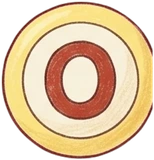
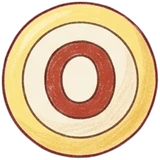
Deduce: fix the O badge cutout, no photo beside the suspicious card

diff --git a/index.html b/index.html
@@ -3287,7 +3287,8 @@ const CHRISTMAS_CASE = {
         opts:['O', 'X'],
         right:'The sleigh marks go from the storeroom past the post to his sleigh.', rightKo:'썰매 자국이 창고에서 기둥 옆을 지나 니코의 썰매까지 이어져.',
         hint:'Look at the two photos of the marks. Find the same wooden post.', hintKo:'자국 사진 두 장을 보고 같은 나무 기둥을 찾아 봐.' },
-      { step:9, who:'nico', q:'Who looks suspicious?', qKo:'누가 수상해 보여?',
+      // no who: a photo beside this card would show the answer (user request)
+      { step:9, q:'Who looks suspicious?', qKo:'누가 수상해 보여?',
         card:'{opt:Nico} looks suspicious.', cardKo:'니코가 수상해 보여.',
         opts:['Coco', 'Tess', 'Daisy', 'Nico'],
         right:"Two of his stories don't match the clues.", rightKo:'니코의 말 두 가지가 단서와 맞지 않아.',

diff --git a/scripts/cut-deduce-ox-buttons.py b/scripts/cut-deduce-ox-buttons.py
@@ -23,20 +23,21 @@ def key(im):
 
 sheet = key(Image.open('assets/ui/deduce-ox-buttons-higgsfield-original.png').convert('RGB'))
 W, H = sheet.size
+# each button is the drawn blob around its grid cell's centre, found on the whole sheet (a button can reach past
+# its quarter of the sheet; cutting by the grid clipped the badge O's edge)
+px = sheet.load()
 for row, style in enumerate(['wood', 'paper', 'wax', 'badge']):
     for col, mark in enumerate('ox'):
-        cell = sheet.crop((col * W // 4, row * H // 4, (col + 1) * W // 4, (row + 1) * H // 4))
-        # keep only the button in the middle of the cell (slivers of the neighbours reach into it)
-        cw, ch = cell.size; px = cell.load(); seen = set(); todo = [(cw // 2, ch // 2)]
+        seen = set(); todo = [(col * W // 4 + W // 8, row * H // 4 + H // 8)]
         while todo:
             x, y = todo.pop()
-            if (x, y) in seen or not (0 <= x < cw and 0 <= y < ch) or px[x, y][3] <= 8: continue
+            if (x, y) in seen or not (0 <= x < W and 0 <= y < H) or px[x, y][3] <= 8: continue
             seen.add((x, y)); todo += [(x + 1, y), (x - 1, y), (x, y + 1), (x, y - 1)]
-        for y in range(ch):
-            for x in range(cw):
-                if (x, y) not in seen: px[x, y] = (0, 0, 0, 0)
-        l, t, r, b = cell.getchannel('A').point(lambda v: 255 if v > 48 else 0).getbbox()
-        part = cell.crop((max(l - 2, 0), max(t - 2, 0), r + 2, b + 2))
+        xs = [x for x, _ in seen]; ys = [y for _, y in seen]
+        box = (min(xs) - 2, min(ys) - 2, max(xs) + 3, max(ys) + 3)
+        part = Image.new('RGBA', (box[2] - box[0], box[3] - box[1]))
+        pp = part.load()
+        for x, y in seen: pp[x - box[0], y - box[1]] = px[x, y]
         part.thumbnail((160, 160), Image.LANCZOS)
         part.save(f'assets/ui/deduce-ox-{style}-{mark}.webp', quality=92)
         print(style, mark, part.size)

diff --git a/HANDOFF.md b/HANDOFF.md
@@ -325,7 +325,7 @@ node server.js            # http://localhost:5173/
   - 맨 위 말풍선(`#deduceQ`)에서 탐정이 **질문을 하나씩** 한다(음성, ▶ 다시 듣기·`해석`). 질문 9개 = `DEDUCE.qs`: ① 언제?(범행 시각 `8:40`) → ② 그때 각자 어디?(레이: Lake Cafe → 본 사람 Mr. Duck / 로지: Moon Hill → 언덕 즉석카메라가 찍어 낸 8:45(사용자 결정: 본인 노트만으로는 약함)) → ③ 거짓말(피오나: 말한 장소 bakery → 주문 보드의 8:30 손님 Mrs. Bear가 문을 두드렸지만 피오나를 못 봄, "She lied." 동그라미) → ④ 왜·어디(그날 신문 리뷰로 화난 상대 Professor Hoot → library). 녹음 `audio/deduce/q·r·h1–9`. 질문·카드 문장에 이번 사건의 열쇠 문법(at / from A to B / between A and B)이 들어간다. 용의자는 레이·로지·피오나(사용자 결정: 두더지 부인은 뺌).
   - 인물 빈칸의 선택창은 `DEDUCE.people`·`deducePic()`으로 각 얼굴을 보여 준다. Professor Hoot는 NPC 목록 `S.met`에 없지만 피해자로 항상 인물 선택지에 남고, 물음표 대신 전신 그림에서 잘라 낸 `assets/ui/icons-v2/hoot.png` 얼굴을 쓴다.
   - 보드(사용자 요청): **카드는 쌓인다**(맞힌 문장이 사라지지 않게, 시각 카드는 따로 없음): 맞힌 문장은 작은 카드(`.ded-card.done`, 압정 없이 살짝 기울게)로 차례대로 남고, 맨 아래에 지금 질문의 압정 꽂은 카드(`#deduceCard`, 깜박이는 빈칸). 목록(`#deduceCards`)은 스크롤되고 새 카드가 생기면 부드럽게 맨 아래로 내려간다(`deduceToEnd()`). **용의자 사진은 그 사람 카드들의 왼쪽**에 붙는다(사용자 요청: 그 문장이 나올 때 그 문장 왼쪽에): 카드를 다루는 사람별로 묶고(`.ded-group`), 탐정이 그 사람을 처음 물을 때(레이 q2·로지 q4·피오나 q6) 첫 카드와 함께 사진이 톡 꽂힌다. 묶음이 길면 사진은 스크롤해도 묶음 위쪽에 붙어 있다(sticky). 순서는 레이 → 로지 → 피오나로 정해져 있다. 사진(지금 묻는 사람에게도 테두리 없음, 사용자 요청): 알리바이가 확인되면 빨간 X — 탐정이 "So Ray couldn't do it."·"Rosie couldn't do it."를 말하는 순간 크레용 X(`ui/crayon-x-1/2.png`)가 한 획씩 그 방향으로 그려진다(사용자 요청, `deduceHold`·`deduceMarkAt()`: 녹음 `r3`·`r5`에서 그 문장이 시작하는 초 `xAt`, 녹음이 없으면 글자 비율로; 말풍선을 눌러 넘기면 바로), 거짓말이 드러나면 빨간 크레용 동그라미(`ui/crayon-o-1/2.png`) — "She lied."를 말하는 순간(`xAt` 6.4초, r7) 아래에서 시작해 시계 반대 방향으로 한 바퀴 그린 뒤 끝이 시작 획 안쪽으로 겹친다(사용자 요청, 원뿔 마스크 `--o1`·`--o2`). 사진 아래 장소 메모는 없다(사용자 요청). 사진은 처음 나올 때 톡 튀어나오고, X·동그라미는 그려진다(`deduceShown`). 빨간 실은 없다(사진이 카드 바로 옆이라). `해석`은 **문장마다 따로**다(사용자 요청: 한 번에 펼치면 원하지 않은 문장 해석도 보임): 말풍선의 `해석`은 지금 대사만 펼치고 다음 대사가 나오면 닫힌다(`deduceShow()`), 맞힌 카드마다 문장 오른쪽에 작은 `해석`(`.ded-ko`, 맞힌 카드 26px·지금 카드 30px)이 있어 그 카드의 한국어만 펼친다(`deduceKoCards`, 보드를 다시 열면 모두 닫힘). 아직 못 푼 카드에는 한국어가 없다(사용자 요청: 카드 해석에 정답이 들어 있고, 묻는 내용은 말풍선 해석이 알려 줌).
-  - **O·X 문항은 포스트잇**(사용자가 시안 A 고름, 배열은 한 줄에 하나: 2열은 5장처럼 홀수일 때 어색함): 보기가 O·X 둘뿐인 문항(크리스마스 4–8번)은 띠 카드 대신 이 화면 전용 노란 포스트잇(`.ded-note`, Higgsfield로 그린 `assets/ui/deduce-note-3.webp`: 아래 가장자리가 살짝 들뜬 그늘, 사용자가 4개 후보 중 3번 고름. 해석을 열면 늘어나므로 `::after`에 9분할 `border-image`(32 50 90 50 → 14 20 36 20px)로 깔아 테두리·그늘은 그대로, 가운데만 늘어남. 빨간 압정으로 꽂음 `tack-red.webp`, 사용자: 테이프 말고 압정. 맞힌 포스트잇은 맞힌 문장 카드처럼 압정이 사라지고 지금 묻는 것에만 꽂힘, 사용자 요청)으로 한 묶음(`.ded-notes`)에 쌓인다. 왼쪽에 말한 사람 얼굴·이름(카드 문장의 `이름: ` 앞부분, 없으면 `suspects`)과 따옴표 문장, 오른쪽 칸에 묻는 동안 O·X 버튼(`.dn-ox`, Higgsfield 노란 배지 `assets/ui/deduce-ox-badge-o/-x.webp`: 버터색 테두리·크림 가운데·빨간 크레용 글자, 사용자가 버튼 시안 5개 중 E 고름. 누르면 살짝 눌리고 그림자가 줄어듦. `data-dox` → `deducePick`). 맞히면 글자가 포스트잇 폭 전체를 쓰고 큰 빨간 크레용 O·X가 오른쪽 위에 겹쳐 그어진다(사용자: 글자와 표시가 겹쳐도 됨; O는 `crayon-o-1·2.png`, X는 O만큼 가는 `crayon-x-thin-1·2.png`, 두 획이 차례로 `.draw`). 새 포스트잇은 위에서 살짝 떨어지며 붙고(`dn-drop`) 틀리면 흔들리며 표시는 그어지지 않는다. 해석은 맞힌 뒤에만(이름과 끝의 O·X를 뗀 `cardKo`). O·X 문항에는 왼쪽 용의자 사진 묶음을 쓰지 않는다(얼굴이 포스트잇에 있음). 다른 문항은 지금 띠 카드 그대로.
+  - **O·X 문항은 포스트잇**(9번 "Who looks suspicious?"는 `who`가 없어 옆에 사진을 붙이지 않음: 사진이 정답을 알려 줌, 사용자 지적)(사용자가 시안 A 고름, 배열은 한 줄에 하나: 2열은 5장처럼 홀수일 때 어색함): 보기가 O·X 둘뿐인 문항(크리스마스 4–8번)은 띠 카드 대신 이 화면 전용 노란 포스트잇(`.ded-note`, Higgsfield로 그린 `assets/ui/deduce-note-3.webp`: 아래 가장자리가 살짝 들뜬 그늘, 사용자가 4개 후보 중 3번 고름. 해석을 열면 늘어나므로 `::after`에 9분할 `border-image`(32 50 90 50 → 14 20 36 20px)로 깔아 테두리·그늘은 그대로, 가운데만 늘어남. 빨간 압정으로 꽂음 `tack-red.webp`, 사용자: 테이프 말고 압정. 맞힌 포스트잇은 맞힌 문장 카드처럼 압정이 사라지고 지금 묻는 것에만 꽂힘, 사용자 요청)으로 한 묶음(`.ded-notes`)에 쌓인다. 왼쪽에 말한 사람 얼굴·이름(카드 문장의 `이름: ` 앞부분, 없으면 `suspects`)과 따옴표 문장, 오른쪽 칸에 묻는 동안 O·X 버튼(`.dn-ox`, Higgsfield 노란 배지 `assets/ui/deduce-ox-badge-o/-x.webp`: 버터색 테두리·크림 가운데·빨간 크레용 글자, 사용자가 버튼 시안 5개 중 E 고름. 누르면 살짝 눌리고 그림자가 줄어듦. `data-dox` → `deducePick`). 맞히면 글자가 포스트잇 폭 전체를 쓰고 큰 빨간 크레용 O·X가 오른쪽 위에 겹쳐 그어진다(사용자: 글자와 표시가 겹쳐도 됨; O는 `crayon-o-1·2.png`, X는 O만큼 가는 `crayon-x-thin-1·2.png`, 두 획이 차례로 `.draw`). 새 포스트잇은 위에서 살짝 떨어지며 붙고(`dn-drop`) 틀리면 흔들리며 표시는 그어지지 않는다. 해석은 맞힌 뒤에만(이름과 끝의 O·X를 뗀 `cardKo`). O·X 문항에는 왼쪽 용의자 사진 묶음을 쓰지 않는다(얼굴이 포스트잇에 있음). 다른 문항은 지금 띠 카드 그대로.
   - 빈칸을 누르면 바로 아래(자리가 없으면 카드 위)에 드롭다운(`#deduceDrop`, 사용자 요청: 하단 선택지 줄 대신): 말풍선 종이 + 연필 꼬리. 시각 3열·장소 2열·인물은 얼굴 4열 격자(만난 적 없는 곰 부인·후트 교수는 `?`). 고를 수 있는 건 **플레이어가 알게 된 것만**(`deduceWords()`: 알게 된 인물 + 이름만 들은 둘, 알게 된 장소, 노트의 시각들). 이미 틀린 단어는 흐리게.
   - 맞으면 카드 칸이 채워지고 정답 효과음 + 탐정 맞장구(이유를 짚음, 꿀색 말풍선) → 말이 끝나고 잠시 뒤 다음 질문(말풍선을 누르면 바로). 틀리면 카드가 흔들리고 낮은 효과음, 첫 번째는 "Hmm… that doesn't fit.", 두 번째부터 그 질문의 힌트(노트의 어디를 다시 볼지, 답은 말하지 않음). 보드를 연 뒤 모든 문항을 합쳐 **다섯 번 틀리면**(`DEDUCE_GIVE_UP`, 사용자 결정 A: 찍어서 맞히는 것을 막음) 보드가 닫히고 장소 화면에서 탐정이 "I need to think a little more. / 조금 더 고민해 보자."라고 혼잣말한다(`deduceGiveUp()`, 모든 사건 공통 녹음 `audio/detective-think-more.mp3`, Grady). 맞힌 카드는 남고 다시 열면 멈춘 문항부터, 횟수는 0부터(`S.deduce.wrong`). 보기는 데이터에 적힌 순서대로 나오므로 정답 자리를 문항마다 다르게 적는다(크리스마스 사건만 섞음; 답이 긴 문항은 보기 3–4개).
   - 음성: 탐정 목소리(Higgsfield MiniMax Grady, 사용자 요청) `audio/deduce/<키>.mp3` 28줄(소풍 사건은 `audio/picnic/deduce/` 28줄 q1–q9·r1–r9·h1–h9·miss, `DEDUCE_DIR`; r7은 "Right. A green folder and a blue pen."으로 고친 뒤 다시 `fcdefb14`; 녹음 전인 문항은 `unrecorded:true`를 달면 세 줄 모두 브라우저 음성) — q1–q9 질문, r1–r9 맞장구, h1–h9 힌트, miss(`DEDUCE_RECORDED`). 키가 빠지면 그 줄만 브라우저 음성. 녹음 대본은 시각을 말로(eight forty), "Sgt."는 "Sergeant"로 썼다(화면 글은 그대로).
